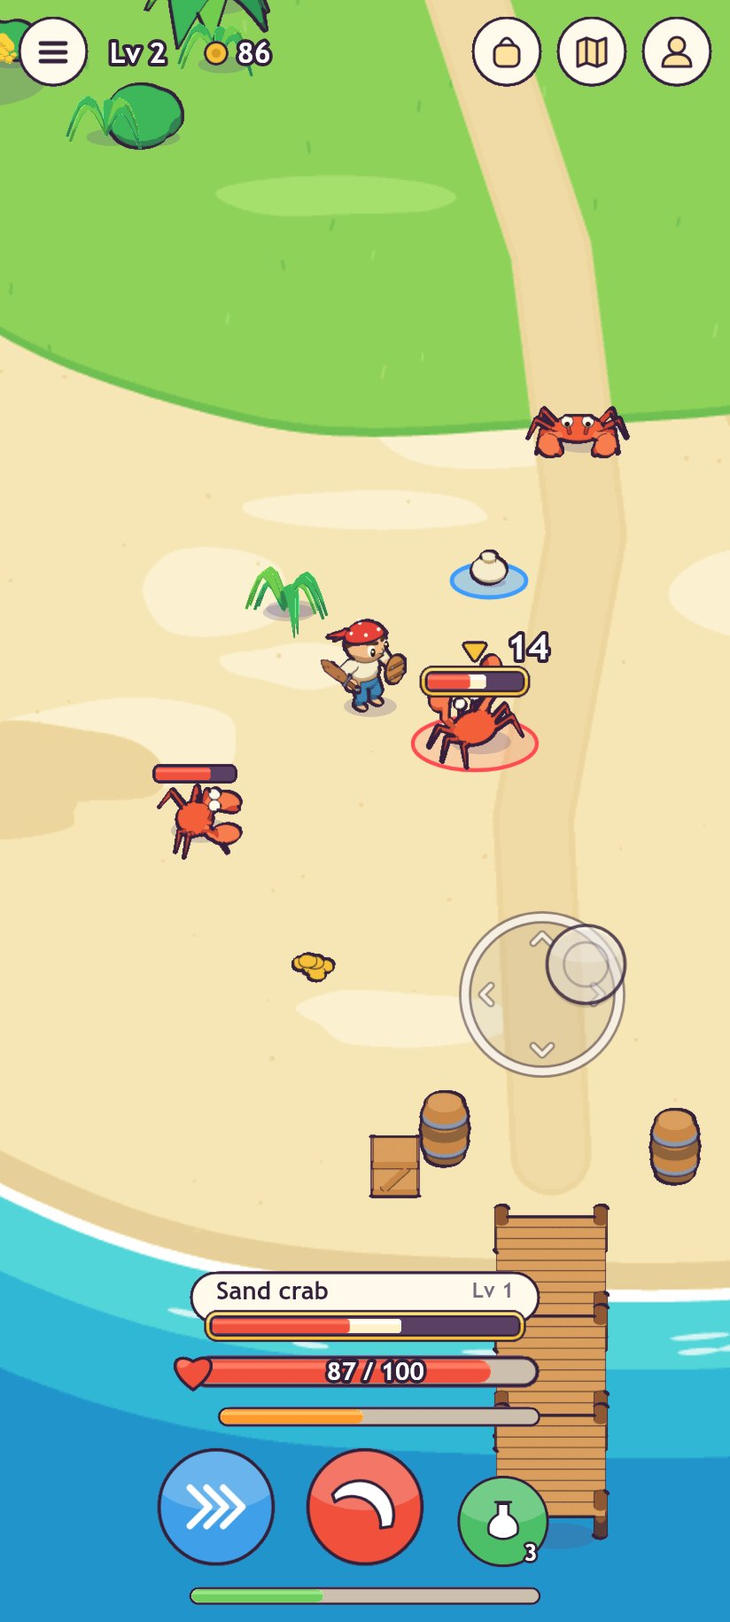
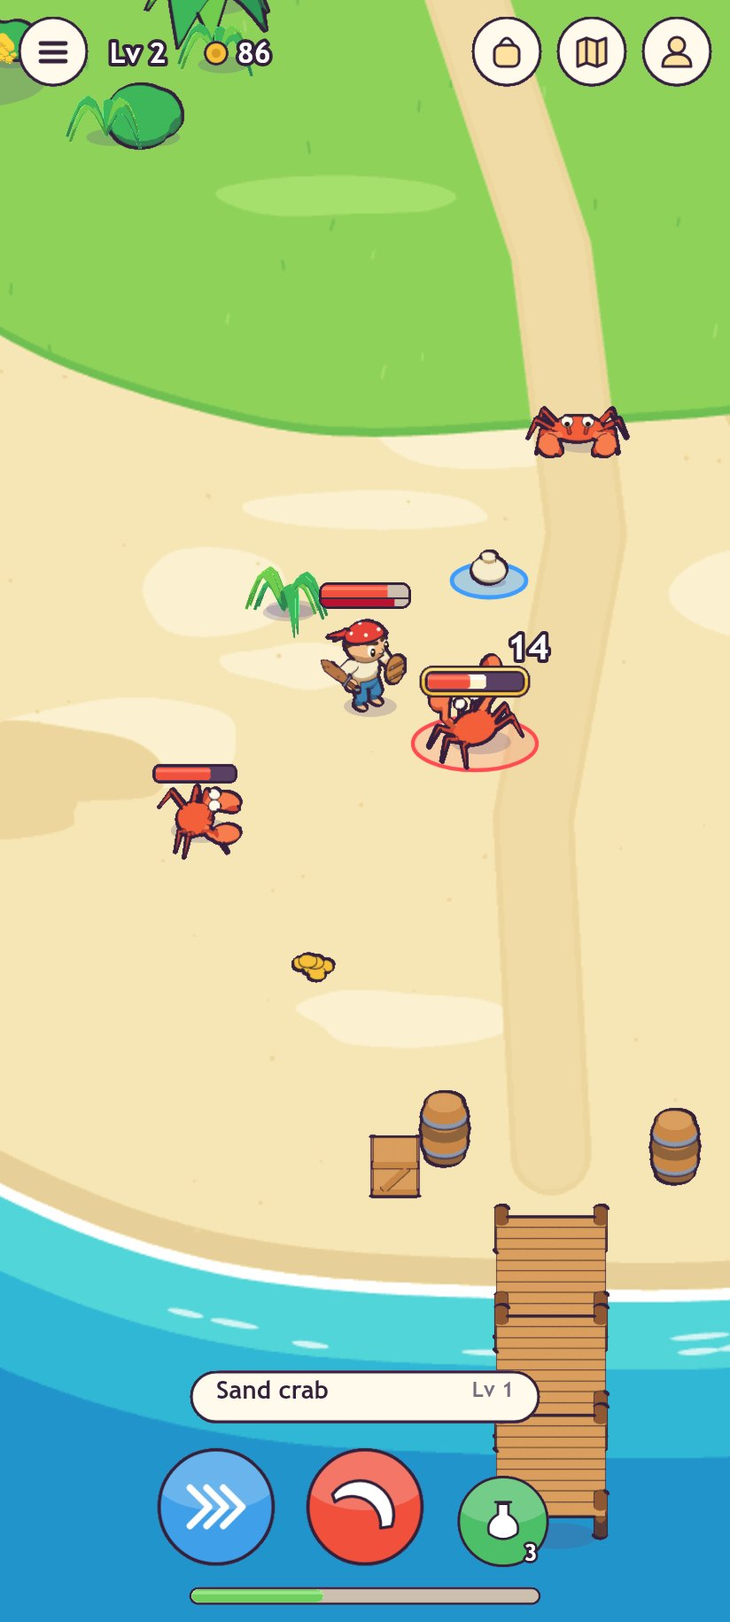
Art Director: his own bar for over his head, and rage is red (Leonard, AD)
Robin, 2026-11-20, on the four ways shown for his own health and rage:
"I think 4, but the heart isnt needed. Also rage is traditionally red. So
they need to be distinctive different red colors".

The real piece is in out/glass (45 pieces, the atlas still 1024 by 512):
own/back, own/hp, own/rage, own/lost and own/frame. One dark outline with
two rooms, health over rage, 52 long and 15 tall, no heart. Three layers,
so no corner of a fill can poke out: the back, the flat fills, the frame
on top.

Which two reds is mine. Health keeps the light red of every health bar;
rage is a deep flat crimson, #b8122f. Seven pairs tried on the scene: two
reds are told apart at this size only when one is clearly darker. A wine
red read as the bar's shadow, two bright reds read as one. fill/rage and
bar/rage are the same crimson, so rage is one colour everywhere.

look-own.jpg shows it as he saw it and as it is now, and four states on
sand, grass and rock. look-screen.jpg is the whole screen with it.
tools/scene.js draws his bar from out/ with --pile bare. His words are in
docs/direction.md, with his words on the screen after his first play.

Not in the game yet; seen in stills only, not on a phone, not moving.

diff --git a/Art Director/tools/glass.js b/Art Director/tools/glass.js
@@ -6,7 +6,9 @@
 const P = require('./paint.js'); const fs = require('fs'); const path = require('path');
 const INK = '#33203a', CREAM = '#fffaec', CREAM2 = '#f3e8cc', WELL = '#cdbfae', PLUM = '#5a4062', SH = 'rgba(51,32,58,0.30)';
 const RARITY = { common: '#b9b2a6', uncommon: '#4cc463', rare: '#3d9cff', epic: '#b666f2' };
-const COL = { hp: '#f0503c', hpHi: '#ff7a62', rage: '#ff9a2e', rageHi: '#ffc060', xp: '#6fd060', xpHi: '#9be88a', cleave: '#f0503c', charge: '#3f9fe8', potion: '#4cbf68', gold: '#f6c23a' };
+const COL = { hp: '#f0503c', hpHi: '#ff7a62', rage: '#b8122f', rageHi: '#d2324a', xp: '#6fd060', xpHi: '#9be88a', cleave: '#f0503c', charge: '#3f9fe8', potion: '#4cbf68', gold: '#f6c23a' };
+// Rage is red (Robin, 2026-11-20: "rage is traditionally red. So they need to be distinctive different red colors"): health
+// keeps the light red of every health bar, rage is a deep crimson. The two differ most in how light they are (mine).
 const S = 2, OUT = path.join(P.ROOT, 'work/glass/render'), items = [];
 const rr = (x, y, w, h, r) => g => { g.beginPath(); P.rr(g, x, y, w, h, r); };
 const disc = (x, y, r) => g => { g.beginPath(); g.arc(x, y, r, 0, Math.PI * 2); g.closePath(); };
@@ -65,6 +67,17 @@ function build() {
   piece('mark/mine', 18, 16, (g) => { const tri = gg => { gg.beginPath(); gg.moveTo(4, 3.5); gg.lineTo(14, 3.5); gg.lineTo(9, 11); gg.closePath(); }; g.lineJoin = 'round'; g.save(); g.translate(0, 1.6); tri(g); g.lineWidth = 3.4; g.strokeStyle = SH; g.stroke(); g.restore(); tri(g); g.lineWidth = 4.6; g.strokeStyle = INK; g.stroke(); tri(g); g.lineWidth = 1.6; g.strokeStyle = COL.gold; g.stroke(); g.fillStyle = COL.gold; g.fill(); }, { note: 'an arrow over the bar of the one he fights; let it bob 2 units, once a second' });
   // A heart for the left end of his own health bar, so his bar is never taken for the monster's.
   piece('mark/heart', 30, 30, (g) => { const heart = gg => { gg.beginPath(); gg.moveTo(15, 25); gg.bezierCurveTo(-1, 14, 4, 2.5, 15, 9); gg.bezierCurveTo(26, 2.5, 31, 14, 15, 25); gg.closePath(); }; panel(g, heart, COL.hp, { lw: 1.8, shadow: 2, hi: gg => { gg.fillStyle = COL.hpHi; gg.beginPath(); gg.ellipse(10, 9.5, 4.2, 2.6, -0.6, 0, 7); gg.fill(); } }); });
+  // His own bar, over his head (Robin, 2026-11-20: "I think the heros health bar should show over his character, and the rage
+  // bar below it"; of the four shown: "I think 4, but the heart isnt needed"). One dark outline with two rooms: health over
+  // rage. Three layers, so no corner can poke out: own/back under, the flat fills in the rooms, own/frame on top. Health
+  // has its light stripe, rage is flat: a second thing that tells them apart at a glance.
+  const OWN = { w: 28, h: 15, r: 5, line: 1.5, hp: 7, bar: 1, rage: 4 }, OWN_NOTE = 'his own bar, 52 long over his head: own/back, then own/lost, own/hp and own/rage in the rooms, then own/frame on top';
+  piece('own/back', OWN.w, OWN.h, (g) => { rr(0.5, 0.5, OWN.w - 1, OWN.h - 1, OWN.r - 0.5)(g); g.fillStyle = WELL; g.fill(); }, { slice: [16, 0, 16, 0], note: OWN_NOTE + '; this is the empty rooms\' colour, as long as the frame' });
+  piece('own/frame', OWN.w, OWN.h, (g) => { const L = OWN.line; rr(0, 0, OWN.w, OWN.h, OWN.r)(g); g.fillStyle = INK; g.fill(); g.save(); rr(L, L, OWN.w - 2 * L, OWN.h - 2 * L, OWN.r - L)(g); g.clip(); g.globalCompositeOperation = 'destination-out'; g.fillStyle = '#000000'; g.fillRect(0, L, OWN.w, OWN.hp); g.fillRect(0, L + OWN.hp + OWN.bar, OWN.w, OWN.rage); g.restore(); },
+    { slice: [16, 0, 16, 0], length: 52, rooms: { hp: { x: OWN.line, y: OWN.line, h: OWN.hp }, rage: { x: OWN.line, y: OWN.line + OWN.hp + OWN.bar, h: OWN.rage } }, note: OWN_NOTE + '; rooms: where each fill starts from the frame\'s top left corner and how tall it is, in design units; a whole fill is the frame\'s length less 3' });
+  piece('own/hp', 8, OWN.hp, (g) => { g.fillStyle = COL.hp; g.fillRect(0, 0, 8, OWN.hp); g.fillStyle = COL.hpHi; g.fillRect(0, 1, 8, 2); }, { fill: true, note: OWN_NOTE + '; stretch it whole to the part\'s length' });
+  piece('own/rage', 8, OWN.rage, (g) => { g.fillStyle = COL.rage; g.fillRect(0, 0, 8, OWN.rage); }, { fill: true, note: OWN_NOTE + '; stretch it whole to the part\'s length' });
+  piece('own/lost', 8, OWN.hp, (g) => { g.fillStyle = '#fff1c9'; g.fillRect(0, 0, 8, OWN.hp); }, { fill: true, note: OWN_NOTE + '; what a blow just took, in the health room under own/hp: it lags and then shrinks' });
   // The stick (Robin, 2026-11-20: "a moving stick"): a ring where the thumb came down and a knob under the thumb. Cream with
   // the dark line, see-through: the ring's inside is all but clear, so a crab under it is still seen.
   piece('stick/ring', 100, 100, (g) => { const c = 50; g.beginPath(); g.arc(c, c, 44, 0, 7); g.fillStyle = 'rgba(51,32,58,0.07)'; g.fill(); g.beginPath(); g.arc(c, c, 43.5, 0, 7); g.lineWidth = 7; g.strokeStyle = 'rgba(51,32,58,0.5)'; g.stroke(); g.beginPath(); g.arc(c, c, 43.5, 0, 7); g.lineWidth = 4.2; g.strokeStyle = 'rgba(255,250,236,0.92)'; g.stroke();

diff --git a/Art Director/tools/scene.js b/Art Director/tools/scene.js
@@ -8,7 +8,9 @@
 // --pile bare is the pile when his own bars go with him over his head (Robin, 2026-11-20; the game's three ways to try):
 // the plate with the name only, the discs, experience. --over <file.js> calls that module's draw(g, c) after the
 // figures, for a sketch of a piece that is not in out/ yet (c: sx, sy, hero, heroTop, piece, pill, P, G, W, H).
-//   node tools/scene.js <out.png> [--at 640,2040] [--no-glass] [--pile mine|bare] [--no-arrow] [--over work/x.js] [--stick 300,560] [--use "Open chest"] [--crop x,y,w,h,zoom]
+// With --pile bare his own bar is drawn over his head from out/glass (Robin, 2026-11-20: "I think 4, but the heart isnt
+// needed"); --own 0.76,0.84 sets his health and rage, --own none leaves the bar out (for a sketch with --over).
+//   node tools/scene.js <out.png> [--at 640,2040] [--no-glass] [--pile mine|bare] [--own 0.76,0.84|none] [--no-arrow] [--over work/x.js] [--stick 300,560] [--use "Open chest"] [--crop x,y,w,h,zoom]
 const P = require('./paint.js'); const D = require('./dress.js'); const fs = require('fs'); const path = require('path');
 const G = require('./glass.js');
 const W = P.JUDGE.w, H = P.JUDGE.h, FONT = 'Trebuchet MS';
@@ -35,6 +37,9 @@ async function main() {
   const bar = (kind, x, y, w, part, k = 1, lost = 0) => { pill('bar/well', x, y, w, k); const full = w - 6 * k; if (lost > part) pill('fill/lost', x + 3 * k, y - k, full * lost, k); if (part > 0) pill('fill/' + kind, x + 3 * k, y - k, Math.max(10 * k, full * part), k); };
   // the bar over a monster: w is the fill's whole length; the one he fights a fifth bigger, with the gold rim and the arrow
   const mobBar = (x, y, w, part, lost, fought) => { const k = fought ? 1.2 : 1, key = fought ? 'mob/well-mine' : 'mob/well', inset = it(key).inset * k, full = w * k, x0 = x - full / 2; pill(key, x0 - inset, y, full + inset * 2, k); if (lost > part) pill('mob/lost', x0, y, full * lost, k); if (part > 0) pill('mob/hp', x0, y, Math.max(5 * k, full * part), k); if (fought && arrow) piece('mark/mine', x, y - 16); };
+  // his own bar: the back, the flat fills in its two rooms (the pale one is what a blow just took), the frame on top
+  const flat = (key, x, y, w, h) => { const f = fr(key); g.drawImage(glass.im, f.x + 1, f.y, f.w - 2, f.h, x, y, w, h); };
+  const ownBar = (x, y, w, hp, rage, lost = 0) => { const r = it('own/frame').rooms, x0 = x - w / 2, y0 = y - fr('own/frame').h / 4, full = w - 2 * r.hp.x; pill('own/back', x0, y, w); if (lost > hp) flat('own/lost', x0 + r.hp.x, y0 + r.hp.y, full * lost, r.hp.h); if (hp > 0) flat('own/hp', x0 + r.hp.x, y0 + r.hp.y, full * hp, r.hp.h); if (rage > 0) flat('own/rage', x0 + r.rage.x, y0 + r.rage.y, full * rage, r.rage.h); pill('own/frame', x0, y, w); };
   // who is where: the hero in the middle, a crab he fights winding up, a hurt one coming, a whole one idling
   const hero = { x: at[0], y: at[1] }, c1 = { x: at[0] + 62, y: at[1] + 20, f: { action: 'attack1', facing: 'nw', i: 2 } }, c2 = { x: at[0] - 96, y: at[1] + 70, f: { action: 'move', facing: 'e', i: 1 } }, c3 = { x: at[0] + 120, y: at[1] - 150, f: { action: 'stand', facing: 's', i: 0 } }, drop = { x: at[0] + 70, y: at[1] - 70 }, coins = { x: at[0] - 30, y: at[1] + 150 };
   const things = [];
@@ -48,6 +53,8 @@ async function main() {
   const o0 = D.frameOf(crab, 'stand', 's', 0).origin, top = (o0.y !== undefined ? o0.y : o0[1]) / 2;
   mobBar(sx(c1.x), sy(c1.y) - top - 14, 44, 0.45, 0.62, true); mobBar(sx(c2.x), sy(c2.y) - top - 12, 44, 0.7, 0, false);
   white('14', sx(c1.x) + 30, sy(c1.y) - top - 34, 20, { align: 'center' });
+  const h0 = D.frameOf(A.hero, 'stand', 's', 0).origin, heroTop = (h0.y !== undefined ? h0.y : h0[1]) / 2, own = opt('own') || '0.76,0.84';
+  if (bare && own !== 'none') { const [hp, rage, lost] = own.split(',').map(Number); ownBar(Math.round(sx(hero.x)), Math.round(sy(hero.y) - heroTop - 13), it('own/frame').length, hp, rage, lost || 0); }   // over the monsters' bars, at one height: his standing picture's
   const over = opt('over'); if (over) { const h0 = D.frameOf(A.hero, 'stand', 's', 0).origin; require(path.resolve(over)).draw(g, { sx, sy, hero, heroTop: (h0.y !== undefined ? h0.y : h0[1]) / 2, piece, pill, P, G, W, H }); }                       // a blow's number rises beside the bar, not over it
   if (!args.includes('--no-glass')) {
     // the top: the menu, his level and money; bag, chart and hero

diff --git a/Art Director/out/glass/NOTES.md b/Art Director/out/glass/NOTES.md
@@ -1,28 +1,44 @@
 # glass  (Leonard, AD, 2026-11-20)
 
 **What it is:** the glass over the game, as pieces: cream panels with the figures' dark line, round buttons, strong flat
-colour only where a thumb goes. 40 pieces in one atlas.
+colour only where a thumb goes. 45 pieces in one atlas.
 
-**What changed and why:** Robin played chapter 1 (2026-11-20) and said: "Health etc on your hero and on mobs needs to be
-easier to see." "There should be a moving stick." Victor, GD moved the pile to the middle at the bottom and asked for a
-bar over a monster's head and for the stick. Twelve new pieces; the 28 earlier ones are as they were. All of it is mine.
+**What changed and why:**
+
+*This drop: his own bar over his head, and rage is red.* Robin, 2026-11-20, in Victor, GD's chat: "I think the heros
+health bar should show over his character, and the rage bar below it. It needs to be fixated well enough that it doesnt
+become messy when fighting mobs." "Would be nice if we can keep the UI as clean as possible." Of the four ways shown
+(`concepts\own-bars\four.jpg`) he said in my chat, 2026-11-20: "I think 4, but the heart isnt needed. Also rage is
+traditionally red. So they need to be distinctive different red colors".
+
+- **His own bar** (`own/back`, `own/hp`, `own/rage`, `own/lost`, `own/frame`): one dark outline with two rooms, health
+  over rage, 52 long and 15 tall. No heart (Robin). Three layers, so no corner can poke out: the back, the flat fills in
+  the rooms, the frame on top.
+- **Rage is red** (Robin). Which two reds is mine: health keeps the light red of every health bar (`#f0503c`) with its
+  light stripe; rage is a deep, flat crimson (`#b8122f`). I tried seven pairs on the scene. Two reds are only told apart
+  at this size when one is clearly darker than the other; a still darker wine red read as the bar's shadow, and two
+  bright reds read as one. `fill/rage` and `bar/rage` are the same crimson now, so rage is one colour everywhere.
+
+*Before, after Robin's first play (2026-11-20):* "Health etc on your hero and on mobs needs to be easier to see." "There
+should be a moving stick." Victor, GD moved the pile to the middle at the bottom and asked for a bar over a monster's
+head and for the stick. All of the look is mine.
 
 - **A monster's bar:** a dark well (`mob/well`), so it reads on sand, grass, rock and sea alike, with the same red
   inside (`mob/hp`). The one he fights has a gold rim between two dark lines (`mob/well-mine`; gold alone is lost on
-  sand, as the gold edge in the game is now) and an arrow over it (`mark/mine`). A pale fill (`mob/lost`) shows what a
-  blow just took.
-- **The stick:** `stick/ring` and `stick/knob`, cream with the dark line, see-through. The white ring in the game now is
-  all but lost on sand.
-- **Fills with round ends** (`fill/hp`, `fill/rage`, `fill/xp`, `fill/lost`): on the real screen the flat fills showed
-  square corners outside my round wells and covered the well's lower line. That was my data: the first notes gave two
-  different heights. The flat ones (`bar/hp`, `bar/rage`, `bar/xp`) stay in the atlas so nothing breaks.
-- **A heart** (`mark/heart`) for the left end of his own health bar, so his bar is never taken for the monster's.
+  sand) and an arrow over it (`mark/mine`). A pale fill (`mob/lost`) shows what a blow just took.
+- **The stick:** `stick/ring` and `stick/knob`, cream with the dark line, see-through.
+- **Fills with round ends** (`fill/hp`, `fill/rage`, `fill/xp`, `fill/lost`) for the bars of the pile. The flat ones
+  (`bar/hp`, `bar/rage`, `bar/xp`) stay in the atlas so nothing breaks.
+- **A heart** (`mark/heart`) for the left end of his health bar in the pile. Not used over his head.
 
-**The numbers:** `glass.png` 1024 by 512 as before, 100 KB (was 67), 2 MB decoded, two pixels a unit. Sizes in design
-units; in `glass.json` each piece's `w` and `h` are file pixels, and its origin is its middle.
+**The numbers:** `glass.png` 1024 by 512 as before, 101 KB, 2 MB decoded, two pixels a unit. Sizes in design units; in
+`glass.json` each piece's `w` and `h` are file pixels, and its origin is its middle.
 
 | Piece | Size | How it stretches |
 | --- | --- | --- |
+| `own/back`, `own/frame` | 28 by 15 | a pill: `slice` left and right 16 file px. Drawn 52 long (`length` in the data) |
+| `own/hp`, `own/lost` | 8 by 7 | flat: stretch it whole to the part's length |
+| `own/rage` | 8 by 4 | flat: stretch it whole to the part's length |
 | `bar/well` | 40 by 18 | a pill: `slice` left and right 16 file px |
 | `fill/hp`, `fill/rage`, `fill/xp`, `fill/lost` | 24 by 10 | a pill: `slice` 10 file px. Inside `bar/well` |
 | `mob/well` | 28 by 13 | a pill: `slice` 12 file px |
@@ -47,51 +63,67 @@ units; in `glass.json` each piece's `w` and `h` are file pixels, and its origin 
 
 **How the game uses it:** copy the folder. `tools\scene.js` draws all of this from the folder and is the reference.
 
-- **A fill is a pill, made as long as the bar's part** (a nine-slice whose width is set, not a picture scaled): its ends
-  stay round. Hide it at nothing; while there is any, not shorter than its two ends (10 units for `fill/*`, 5 for
-  `mob/*`).
-- **His own bars:** the fill's left end is 3 units in from the well's left edge, as now. Its middle is **1 unit above
-  the well's middle** (the well's picture has room for a shadow under it), and it is **10 tall**, not 12. Whole, it is
-  the well's length less 6.
+- **His own bar, over his head.** Five pictures at one place, in this order:
+  1. `own/back`, 52 long: the colour of the empty rooms.
+  2. `own/lost` in the health room, as long as his health was before the blow (if you show that).
+  3. `own/hp` in the health room: it starts **1.5 in from the frame's left edge and 1.5 down from its top, 7 tall**.
+  4. `own/rage` in the rage room: **1.5 in, 9.5 down, 4 tall**.
+  5. `own/frame`, 52 long, on top. It hides the fills' square corners.
+
+  A whole fill is the bar's length less 3, so 49. The same numbers are in `own/frame`'s data as `rooms`. Hide a fill at
+  nothing. Keep the five on the same whole pixels, so no line of the back shows between a fill and the frame.
+  **Where:** its middle 13 above the top of his first `stand` `s` frame, at his feet's x, over every monster's bar. One
+  height, never the top of the picture now shown: that is what keeps it still in a fight. The length is mine: 52 is a
+  little wider than he is; the pill takes any length.
+- **With his bar on the field I would leave `mark/mine` out** (the arrow over the one he fights): it touches his bar
+  when that monster stands beside him, and the gold rim, the bigger bar and the ring under its feet already say which
+  one it is. Mine.
+- **Rage's colour in the code:** `#b8122f` wherever the game colours rage itself (the ring round Cleave, a plain bar).
+- **A fill of the pile is a pill, made as long as the bar's part** (a nine-slice whose width is set, not a picture
+  scaled): its ends stay round. Hide it at nothing; while there is any, not shorter than its two ends (10 units for
+  `fill/*`, 5 for `mob/*`).
+- **The bars of the pile:** the fill's left end is 3 units in from the well's left edge. Its middle is **1 unit above
+  the well's middle** (the well's picture has room for a shadow under it), and it is **10 tall**. Whole, it is the
+  well's length less 6.
 - **Over a monster:** for a fill `w` long (44 or more), `mob/well` is `w + 6` long and the fill starts 3 in, on the
   well's middle. For the one he fights: `mob/well-mine` is `w + 10` long, the fill starts 5 in, and the whole bar is
-  drawn **a fifth bigger** (well and fill alike). `mark/mine` sits 16 above that bar's middle; let it bob 2 units, once
-  a second, if you like.
-- **`mob/lost` and `fill/lost`** go under the red, as long as the health was before the blow, and shrink to the red a
-  moment later (I would hold 200 ms, then shrink over 300; how it feels is Robin's).
+  drawn **a fifth bigger** (well and fill alike). `mark/mine` sits 16 above that bar's middle.
+- **`mob/lost`, `fill/lost` and `own/lost`** go under the red, as long as the health was before the blow, and shrink to
+  the red a moment later (I would hold 200 ms, then shrink over 300; how it feels is Robin's).
 - **The stick:** `stick/ring` where the thumb came down, `stick/knob` under the thumb, both at full strength (no alpha
   on top: it is in the pictures). Their middles are their origins.
-- **The heart:** its middle 3 units in from the left end of his health bar and 1 above the bar's middle.
+- **The heart**, in the pile only: its middle 3 units in from the left end of his health bar and 1 above the bar's middle.
 
-**Three things seen on the real screen (Victor, GD's to take or leave):**
-1. The bar over a monster rides on the top of the picture now shown, so it jumps as the crab moves its claws. One
-   height for each kind is steadier: I use the top of its first `stand` frame, and put the bar's middle 12 above it
-   (14 for the one he fights). The raised claw then passes behind the bar for a moment.
-2. A blow's number starts on top of the bar and hides it. Beside the bar, or starting above it, both stay readable.
-3. The pile has two red bars of nearly the same length, one over the other: his and the monster's. Mine instead, in
-   `look-bars.jpg` and `look-screen.jpg` (the middles, of 412 by 915): experience 200 long at y 901, drawn at 0.72 of
-   its size; the discs as they are; rage 184 long from x 122, y 800, at 0.8 of its size; his health 200 long at y 775,
-   at 1.3 of its size, the heart on its left end, the numbers 14 bold; the plate at y 733 with the monster's bar on its
-   foot as `mob/well-mine` (y 748; the fill 172 long as drawn, so 143 before the fifth, and the whole bar 184 long, inside the plate): the dark bar is the monster's, on the plate as
-   over its head. The button for the thing he stands by at y 683.
+**The pile, my way** (in the game since 47c3209; pictured in `look-bars.jpg`, where rage still has its first orange):
+experience 200 long at y 901, drawn at 0.72 of its size; the discs as they are; rage 184 long from x 122, y 800, at 0.8
+of its size; his health 200 long at y 775, at 1.3 of its size, the heart on its left end, the numbers 14 bold; the plate
+at y 733 with the monster's bar on its foot as `mob/well-mine` (y 748; the fill 172 long as drawn, so 143 before the
+fifth, and the whole bar 184 long, inside the plate). With his bar over his head the pile is the plate with the name,
+the discs and experience, as in `look-screen.jpg`.
 
 **The colours:** line `#33203a`, cream `#fffaec` and `#f3e8cc`, wells `#cdbfae`, the monster's well `#5a4062`; health
-`#f0503c`, rage `#ff9a2e`, experience `#6fd060`, what a blow took `#fff1c9`; Cleave `#f0503c`, Charge `#3f9fe8`, potion
-`#4cbf68`; gold `#f6c23a`. Words on the field (a hit's number, the level) are white with the dark line round them.
+`#f0503c` (its light stripe `#ff7a62`), rage `#b8122f` (its light stripe on the pile's pill `#d2324a`), experience
+`#6fd060`, what a blow took `#fff1c9`; Cleave `#f0503c`, Charge `#3f9fe8`, potion `#4cbf68`; gold `#f6c23a`. Words on
+the field (a hit's number, the level) are white with the dark line round them.
 
 **The font:** the pictures use Trebuchet MS bold as a stand-in. I would pick a round, heavy face to go with the look
 (Fredoka or Baloo 2, both free under the Open Font Licence). That is a file to add to the game and to tell Robin about,
 so I have not fetched one.
 
-**Open:** the whole design is for Robin to judge. The small hard shadow the tool draws under each piece is cut away by
-the packer's hard edge, so the game has shown the glass without it since the first drop; it comes back with one flag
-(`--soft`) if it is wanted. The potion's disc is green while the health it fills is red.
+**Open:**
+- The two reds are for Robin to judge on his phone. If they still read as one, the next steps are a taller rage room or
+  a still deeper red.
+- Cleave's disc is the same red as health. It was before rage turned red too; now three reds meet on the screen.
+- The small hard shadow the tool draws under each piece is cut away by the packer's hard edge, so the game has shown the
+  glass without it since the first drop; it comes back with one flag (`--soft`) if it is wanted.
+- The potion's disc is green while the health it fills is red.
 
-**Not tested:** in the game since Victor, GD's 47c3209, and seen there once in a still at 412 by 915. `look-bars.jpg` has the real screen on the left (a test copy of the
-game on this PC, a fresh game, not Robin's save) and `tools\scene.js` on the right. Nothing pressed; the stick not felt
-under a thumb; the bars not seen moving.
+**Not tested:** his own bar is not in the game yet: I saw it only in `tools\scene.js` pictures, still, on my screen, not
+on a phone and not moving. The earlier pieces are in the game since Victor, GD's 47c3209 and 9c937fb, seen there in
+stills at 412 by 915. Nothing pressed; the stick not felt under a thumb.
 
 **Origin and licence:** drawn here by `tools\glass.js`. Nothing from outside.
 
-**Where to see it:** `look-bars.jpg` (now and new, side by side), `look-screen.jpg` (the whole screen), `look-grounds.jpg`
-(the bars and the stick on sand, grass, rock and sea), `look.jpg` (every piece).
+**Where to see it:** `look-own.jpg` (his own bar: as Robin saw it and as it is now, and four states on sand, grass and
+rock), `look-screen.jpg` (the whole screen with it), `look-bars.jpg` (the monsters' bars, the pile and the stick, before
+and after), `look-grounds.jpg` (the monsters' bars and the stick on sand, grass, rock and sea), `look.jpg` (every piece).

diff --git a/Art Director/docs/log.md b/Art Director/docs/log.md
@@ -20,3 +20,4 @@ when they matter), what was made and where (`out\<name>\`, the tool), what is wa
 - 2026-11-20: Victor, GD: the glass's second drop is in the game, copied whole (47c3209), with the three points taken: one height for a kind's bar, a blow's number beside the bar, and the pile stacked my way. Checked: the game's glass.png and glass.json are the studio's by hash, and a still of the real screen (my test copy, 412 by 915, a fight with the stick held) looks like the right half of look-bars.jpg. One fault, from my own note: on the plate the monster's bar came out longer than the plate (the fill 172 times a fifth); the note now says 172 as drawn, the whole bar 184, and Victor, GD has a line. He lists for Robin: the text face, the shadow flag, the potion's green disc. His dev server no longer restarts an open page: a test copy shows a change only when opened again. Leonard, AD.
 - 2026-11-20: Victor, GD: the monster's bar on the plate is 172 long as drawn, 184 with its well, inside the plate (9c937fb). Checked in his code (the fill 172 / 1.2 before the fifth) and by hash: the game's glass.png, glass.json and NOTES.md are the studio's. Not looked at on the screen again by me. Nothing is open between us; it waits for Robin's eye. Leonard, AD.
 - 2026-11-20: Robin, in Victor, GD's chat: "I think the heros health bar should show over his character, and the rage bar below it. It needs to be fixated well enough that it doesnt become messy when fighting mobs." "Would be nice if we can keep the UI as clean as possible." "Give me some suggestions." Victor, GD put three ways in the game to try (61fc904), with stand-ins from my glass; nothing asked of the studio yet. Looked at all three on the real screen and drew a sketch: concepts/own-bars (four.jpg, README.md, own.js). Mine: not way 2 (the rage bar under his feet lies across whoever stands south of him); my pick is way 1 drawn as one small piece, then way 3; leave the arrow out when his own bars are on the field. Sent to Victor, GD and to Robin. Robin has not picked. tools/scene.js has new switches: --pile bare, --no-arrow, --over. Leonard, AD.
+- 2026-11-20: Robin, in my chat, on the four ways for his own bars: "I think 4, but the heart isnt needed. Also rage is traditionally red. So they need to be distinctive different red colors". Made the real piece into out/glass (45 pieces, the atlas still 1024 by 512, 101 KB): own/back, own/hp, own/rage, own/lost, own/frame: one dark outline with two rooms, health over rage, 52 long and 15 tall, no heart; three layers so no corner pokes out. Rage is a deep flat crimson #b8122f beside health's light red #f0503c (mine; seven pairs tried on the scene: two reds are told apart only when one is clearly darker; a wine red read as the bar's shadow). fill/rage and bar/rage are the same crimson. look-own.jpg (as he saw it and now; four states on sand, grass and rock), look-screen.jpg and look.jpg redone. tools/scene.js draws his bar from out/ with --pile bare (--own hp,rage,lost). His words are in docs/direction.md. Not in the game yet; seen in stills only. Sent to Robin and to Victor, GD. Leonard, AD.

diff --git a/Art Director/docs/inventory.md b/Art Director/docs/inventory.md
@@ -24,7 +24,7 @@ which drop is the game's `docs\state\art.md`). Robin has played it once (2026-11
 | 5 | Loot on the ground and the rarity effect in four colours | in the game: `out\loot\` |
 | 6 | The chest: closed, opening, open | in the game: in `out\island\` as `chest/...` |
 | 7 | The harbour's kit: ground, houses, a stall, the shopkeeper, townsfolk | in the game: `out\harbour\` |
-| 8 | The glass | in the game: `out\glass\` (40 pieces: the first 28, and twelve since Robin's first play: a monster's bar, the stick, fills with round ends, a heart; Victor, GD's 47c3209) |
+| 8 | The glass | in the game: `out\glass\` as 40 pieces (the first 28, and twelve since Robin's first play: a monster's bar, the stick, fills with round ends, a heart; Victor, GD's 47c3209). Delivered and not yet in the game: 45 pieces, with his own bar for over his head (`own/...`) and rage turned red |
 | 9 | The sea chart | in the game: `out\chart\` (one chart, mine, where the rule is three) |
 | 10 | The icon, 192 and 512 | in the game: `out\icon\` |
 
@@ -41,7 +41,8 @@ which drop is the game's `docs\state\art.md`). Robin has played it once (2026-11
 | The pile at the bottom, my way | Leonard, AD | in the game (47c3209): his health the biggest thing with a heart on its end, the monster's bar dark on its plate. Robin's to judge |
 | The small shadow under each piece of glass | Leonard, AD | the tool draws it, the packer's hard edge cuts it away, so the game has never shown it; back with `--soft` if wanted. In Victor, GD's list for Robin |
 | The potion's colour | Leonard, AD | its disc is green, the health it fills is red. In Victor, GD's list for Robin, with the text face |
-| His own health and rage over his head | Robin (2026-11-20), through Victor, GD | three ways are in the game to try, with stand-ins; my view and a sketch in `concepts\own-bars\`. The real piece when Robin has picked and Victor, GD asks |
+| His own health and rage over his head | Robin (2026-11-20) | he picked: "I think 4, but the heart isnt needed. Also rage is traditionally red. So they need to be distinctive different red colors". The piece is in `out\glass\` (`own/back`, `own/hp`, `own/rage`, `own/lost`, `own/frame`), with `look-own.jpg`. Open: Victor, GD puts it in the game; Robin judges the two reds on his phone (which reds is mine) |
+| Three reds on the screen | Leonard, AD | health, rage and Cleave's disc are all red now; Cleave's disc is health's red. Nobody has asked |
 | The camera | Robin's to judge | it stays at 1; a quarter closer is one number in the game and a re-render at 2.5 pixels a unit here |
 
 ## Assets

diff --git a/Art Director/docs/direction.md b/Art Director/docs/direction.md
@@ -81,8 +81,17 @@ the choice's.
   items drop on the ground and fly to him when he walks close.
 - **How the player is guided** (Robin, 2026-11-20, his pick): light quests. A few people in the harbour give hunting
   tasks ("30 crabs", "5 shells") with ! and ? marks. So: a few harbour people, and the two marks.
-- **The screen** (Robin, 2026-11-20, his pick): skills in an arc in the bottom corner under his thumb; bag, chart and
-  character as small buttons at the top.
+- **The screen** (Robin, 2026-11-20, after his first play): "I think the buttons should be in the middle at the
+  bottom." "There should be a moving stick so you can choose to move with the stick or click where to go (both
+  available at the same time)." "Health etc on your hero and on mobs needs to be easier to see." It replaces his pick
+  of the same morning, made before he had played: skills in an arc in the bottom corner. Bag, chart and character stay
+  small buttons at the top.
+- **His own health and rage** (Robin, 2026-11-20): "I think the heros health bar should show over his character, and
+  the rage bar below it. It needs to be fixated well enough that it doesnt become messy when fighting mobs." "Would be
+  nice if we can keep the UI as clean as possible." Of four ways shown he picked the one small bar with two rooms: "I
+  think 4, but the heart isnt needed. Also rage is traditionally red. So they need to be distinctive different red
+  colors". So: one bar over his head, health over rage, no heart; rage is red, and a red clearly unlike health's.
+  Which two reds is mine: health the light red `#f0503c`, rage a deep crimson `#b8122f`.
 - **Chapter 1** (Robin, 2026-11-20, his pick): "Harbour town plus island". One island with three monsters, levelling 1
   to 5, loot with rarities, one chest, a small harbour town with a shop, and the sea chart between the two. "Real art
   and sound for just that."

diff --git a/Art Director/concepts/own-bars/README.md b/Art Director/concepts/own-bars/README.md
@@ -6,7 +6,11 @@ keep the UI as clean as possible." "Give me some suggestions."
 
 Victor, GD put three ways in the game to try (his commit 61fc904; "Bars" in the settings), all with stand-ins made from
 my glass. Nothing was asked of the studio yet. I looked at all three on the real screen (my test copy, 412 by 915, the
-same fight) and drew one sketch. **Robin has not picked.**
+same fight) and drew one sketch.
+
+**Robin picked** (in my chat, 2026-11-20): "I think 4, but the heart isnt needed. Also rage is traditionally red. So
+they need to be distinctive different red colors". The real piece is in `out\glass\` (`own/...`), with its notes and
+`look-own.jpg`. What follows is as it stood before his pick.
 
 `four.jpg`: 1, 2 and 3 are the real screen; 4 is my sketch on `tools\scene.js`.
 

diff --git a/Art Director/out/README.md b/Art Director/out/README.md
@@ -35,7 +35,7 @@ a NOTES.md. Nothing here has been judged by Robin: **every look and design is mi
 | `coconut-crab` | 1024 by 2048 | 8 MB | 202 KB |
 | `island` | ground 1400 by 2400, props 1024 by 1024 | 13.4 + 4 MB | 67 + 52 KB |
 | `loot` | 256 by 256 | 0.3 MB | 18 KB |
-| `glass` | 1024 by 512 | 2 MB | 100 KB |
+| `glass` | 1024 by 512 | 2 MB | 101 KB |
 | `harbour` | ground 900 by 1100, props 1024 by 1024, people 1024 by 512 | 4 + 4 + 2 MB | 41 + 32 + 72 KB |
 | `chart` | the chart 824 by 1830, pins 256 by 256 | 6 + 0.3 MB | about 100 + 20 KB |
 | `icon` | 512 and 192 | | about 150 KB |
